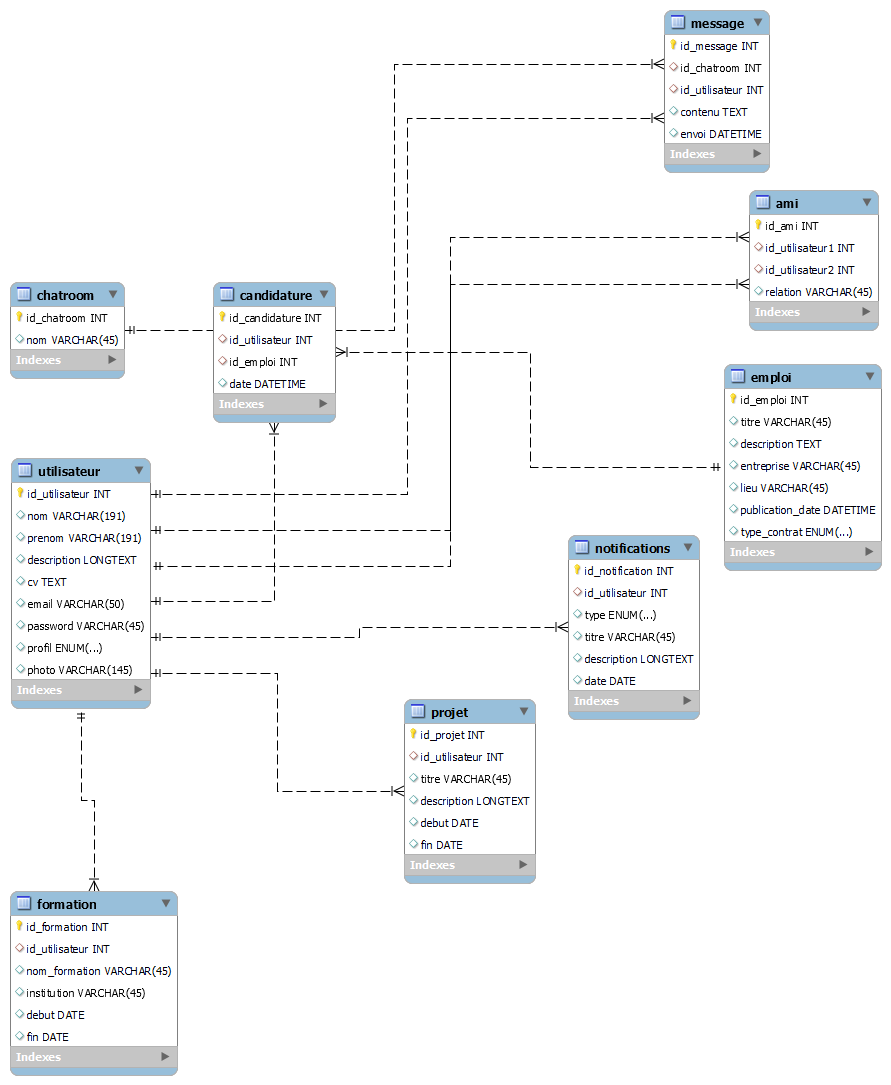
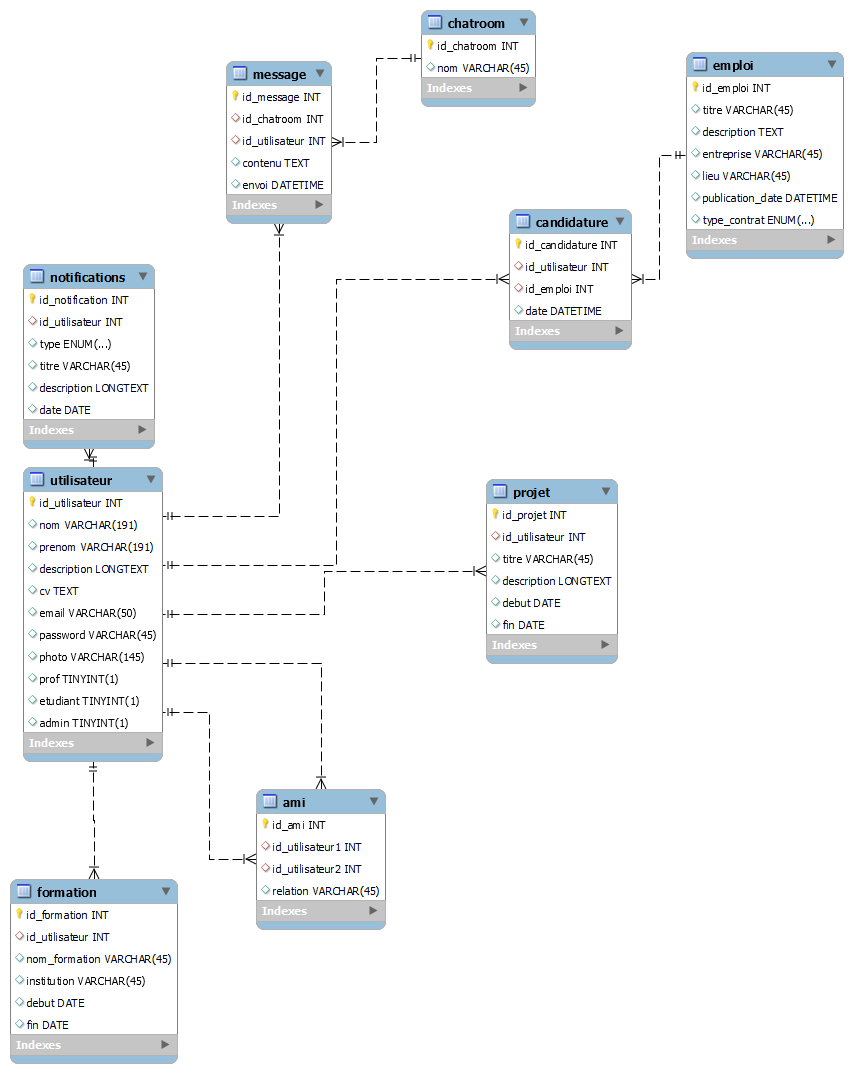
mise à jour de la bdd + mise en place de l'interface de connexion

diff --git a/backend/connexion/connexion.css b/backend/connexion/connexion.css
@@ -1,0 +1,142 @@
+@import url("https://fonts.googleapis.com/css?family=Quicksand&display=swap");
+
+* {
+  box-sizing: border-box;
+}
+
+body {
+  margin: 0;
+  display: flex;
+  flex-direction: column;
+  justify-content: center;
+  align-items: center;
+  height: 100vh;
+  background-color: #018B95;
+}
+
+.container {
+  position: relative;
+  width: 420px;
+  min-height: 490px;
+  height: auto;
+  max-height: 520px;
+  background-color: #f0f6fb;
+  padding: 15px 25px;
+  border-radius: 10px;
+  font-size: 18px;
+  font-family: "Quicksand", sans-serif;
+}
+
+.logo {
+  position: absolute;
+  top: 2%;
+  left: 50%;
+  transform: translate(-50%, 0);
+  width: 55px;
+  height: 55px;
+  border-radius: 50%;
+  box-shadow: 0 5px 5px #ccc;
+  font-size: 1.8em;
+  background-color: #018B95;
+  color: #f0f6fb;
+  display: flex;
+  justify-content: center;
+  align-items: center;
+}
+
+.tab-body {
+  position: relative;
+  display: none;
+
+  height: auto;
+  max-height: 320px;
+  padding: 15% 5%;
+  margin-top: 20%;
+  background-color: #fff;
+  color: #82ade6de;
+  box-shadow: 0px 5px 10px #7c8395;
+  border-radius: 30px;
+  font-size: 1rem;
+}
+.tab-body.active {
+  display: block;
+}
+
+.row {
+  display: flex;
+  justify-content: space-between;
+  border-bottom: 1px solid #018B95;
+  padding: 1.8% 0;
+  margin: 20px 0;
+}
+
+.row .input {
+  width: 90%;
+  border: none;
+  outline: none;
+  color: #018B95;
+  font-weight: 550;
+}
+.input::placeholder {
+  color: #018B95;
+}
+
+.link {
+  display: inline-block;
+  font-size: 0.8em;
+  width: 100%;
+  text-decoration: none;
+  color: #018B95;
+  text-align: right;
+}
+.link:hover {
+  text-decoration: underline;
+}
+
+.btn {
+  position: absolute;
+  left: 50%;
+  bottom: 0;
+  transform: translate(-50%, 50%);
+  width: 120px;
+  height: 45px;
+  border-radius: 50px;
+  background-color: #018B95;
+  border: none;
+  outline: none;
+  color: #fff;
+  cursor: pointer;
+}
+
+.tab-footer {
+  position: absolute;
+  bottom: 5%;
+  left: 50%;
+  transform: translate(-50%, 0);
+  height: 30px;
+  display: flex;
+}
+
+.tab-link {
+  text-decoration: none;
+  color: #018B95;
+  margin: 0 3%;
+}
+
+.tab-link.active {
+  font-weight: bold;
+}
+
+@media screen and (max-width: 520px) {
+  .container {
+    width: 80%;
+    min-width: 380px;
+    min-height: 490px;
+  }
+  .tab-body {
+    width: 100%;
+    padding: 15% 5%;
+    margin-top: 25%;
+    max-height: 420px;
+  }
+}

diff --git a/backend/connexion/connexion.html b/backend/connexion/connexion.html
@@ -1,0 +1,59 @@
+<html lang="en">
+
+<head>
+  <meta charset="UTF-8">
+  <meta name="viewport" content="width=device-width, initial-scale=1.0">
+  <link rel="stylesheet" href="connexion.css">
+  <script src="https://kit.fontawesome.com/a076d05399.js"> </script>
+  <script src="connexion.js" defer></script>
+  <link rel="icon" href="logo/logo_ece.ico" type="image/x-icon" /> 
+  <title>ECE In: Sign in</title>
+</head>
+
+<body>
+  <div class="container">
+    <div class="logo">
+      <i class="fas fa-user"></i>
+    </div>
+
+    <div class="tab-body" data-id="connexion">
+      <form>
+        <div class="row">
+          <i class="far fa-user"></i>
+          <input type="email" class="input" placeholder="Adresse Mail">
+        </div>
+        <div class="row">
+          <i class="fas fa-lock"></i>
+          <input placeholder="Mot de Passe" type="password" class="input">
+        </div>
+        <a href="#" class="link">Mot de passe oublié ?</a>
+        <button class="btn" type="button">Connexion</button>
+      </form>
+    </div>
+
+    <div class="tab-body" data-id="inscription">
+      <form>
+        <div class="row">
+          <i class="far fa-user"></i>
+          <input type="email" class="input" placeholder="Adresse Mail">
+        </div>
+        <div class="row">
+          <i class="fas fa-lock"></i>
+          <input type="password" class="input" placeholder="Mot de Passe">
+        </div>
+        <div class="row">
+          <i class="fas fa-lock"></i>
+          <input type="password" class="input" placeholder="Confirmer Mot de Passe">
+        </div>
+        <button class="btn" type="button">Inscription</button>
+      </form>
+    </div>
+
+    <div class="tab-footer">
+      <a class="tab-link active" data-ref="connexion" href="javascript:void(0)">Connexion</a>
+      <a class="tab-link" data-ref="inscription" href="javascript:void(0)">Inscription</a>
+    </div>
+  </div>
+</body>
+
+</html>

diff --git a/backend/connexion/connexion.js b/backend/connexion/connexion.js
@@ -1,0 +1,24 @@
+let tabs = document.querySelectorAll(".tab-link:not(.desactive)");
+
+tabs.forEach((tab) => {
+  tab.addEventListener("click", () => {
+    unSelectAll();
+    tab.classList.add("active");
+    let ref = tab.getAttribute("data-ref");
+    document
+      .querySelector(`.tab-body[data-id="${ref}"]`)
+      .classList.add("active");
+  });
+});
+
+function unSelectAll() {
+  tabs.forEach((tab) => {
+    tab.classList.remove("active");
+  });
+  let tabbodies = document.querySelectorAll(".tab-body");
+  tabbodies.forEach((tab) => {
+    tab.classList.remove("active");
+  });
+}
+
+document.querySelector(".tab-link.active").click();
